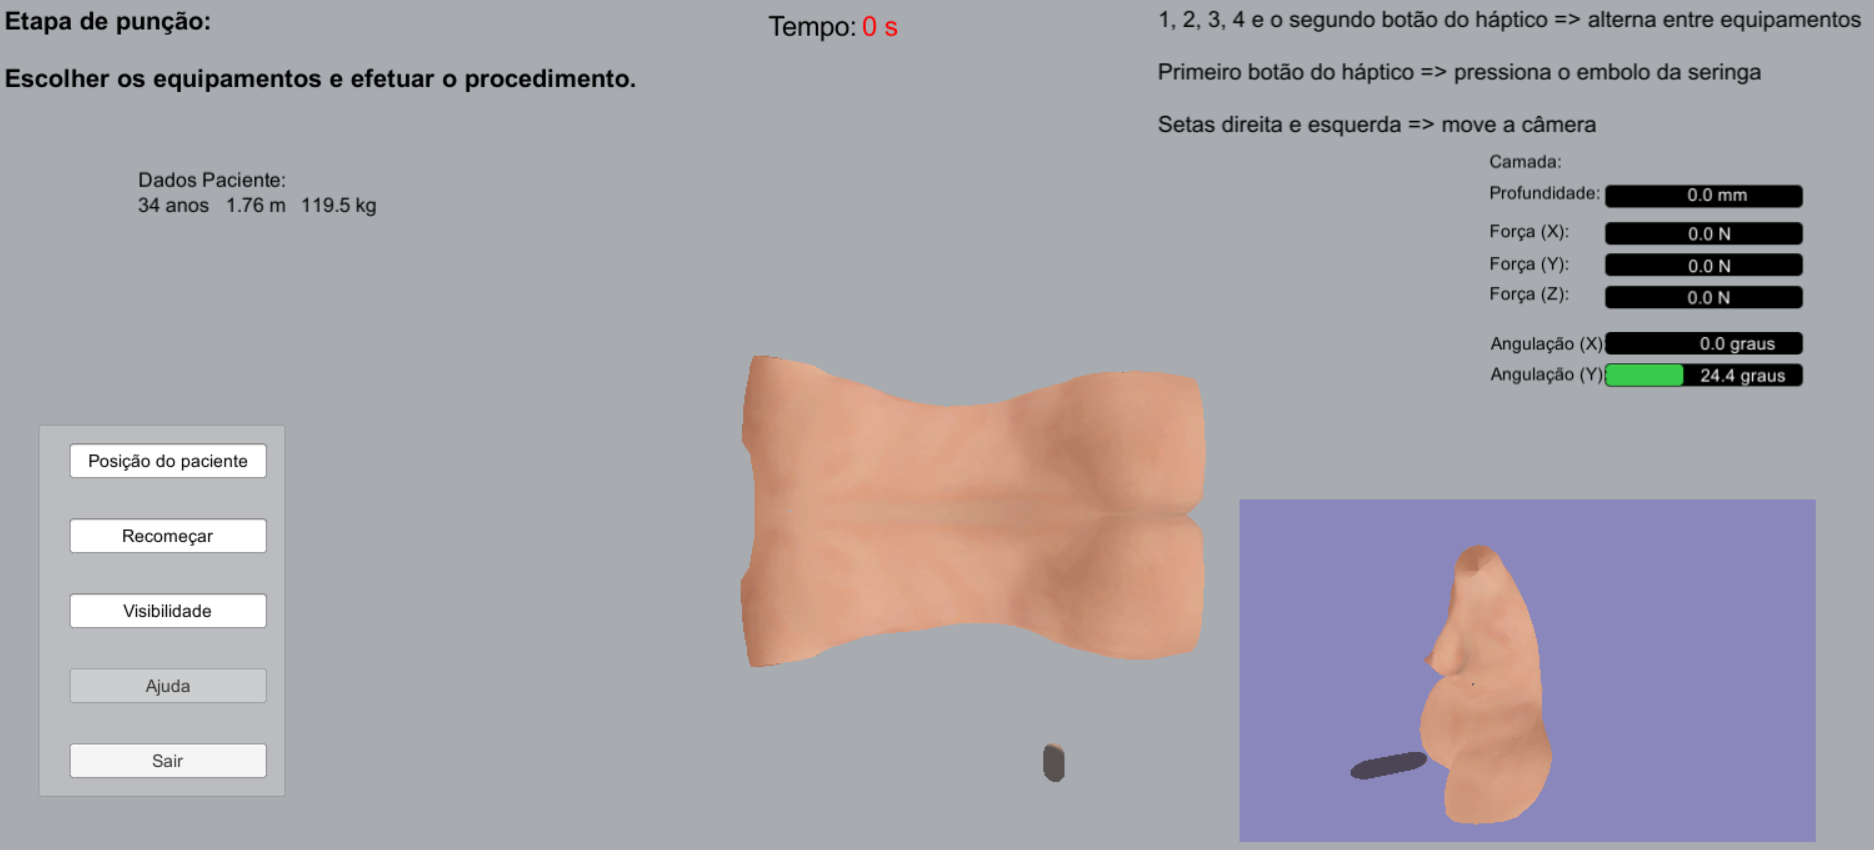
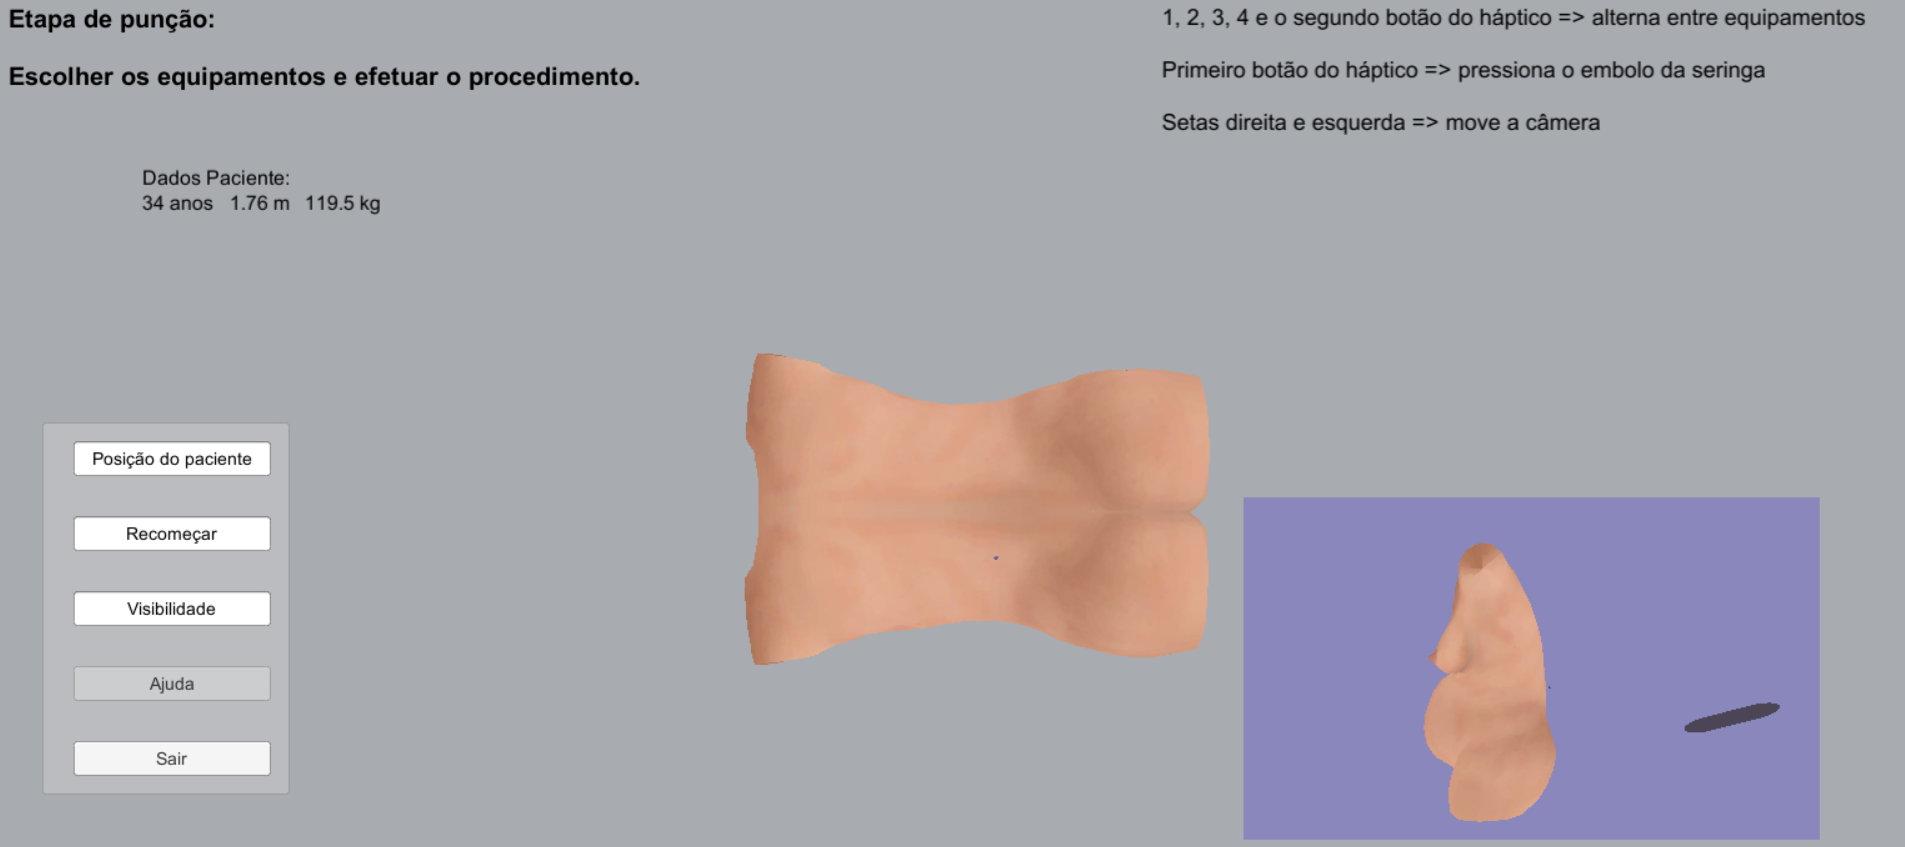
Incluindo imagens de exemplo de execução de procedimentos e inicio da tabela de pontuação

diff --git a/capitulos/cap4.tex b/capitulos/cap4.tex
@@ -157,4 +157,59 @@ Para configuração do \textit{Haptic Plug-In For Unity3D} \cite{Poyade2014} que
 
 \section {Etapas da simulação}
 
-O simulador ao ser iniciado apresenta uma paciente dentre as seis pré-configuradas ilustradas na Figura~\ref{fig:pacientesMaiorParaMenorIMCVisaoTroncoELateral}. Nestas existem pacientes com peso considerado normal, excesso de peso e obesas \cite{MTILLC2019}. O usuário precisa ter uma média de notas acima de seis na execução de procedimentos usando o simulador para que sua habilidade seja considerada satisfatória. É necessário completar a execução de ao menos três procedimentos tendo a média acima de seis para que a habilidade do usuário seja considerada como satisfatória. A nota final corresponde a média da nota obtida em todos os procedimentos executados. No casos de não se atingir a média seis nos três primeiros procedimentos será necessário executar tantos procedimentos quanto forem necessários para se chegar a média seis considerando todos os procedimentos executados. São apresentados \textit{feedbacks} para o usuário durante e ao final de cada procedimento executado em cada um dos pacientes. Primeiro ele precisa identificar via apalpação um dos pontos de inserção da agulha possíveis. Em seguida é necessário aplicar o anestésico local neste ponto de inserção da agulha inserindo a seringa somente até a camada da gordura subcutânea (perfurando somente a camada corporal) para aplicação. Então ele precisa inserir a agulha de raquianestesia neste ponto e avançar pelas camadas até o espaço subaracnóide onde precisa então ministrar a anestesia. A tabela ilustra a pontuação para formação da nota de cada procedimento. 
+O simulador ao ser iniciado apresenta uma paciente dentre as seis pré-configuradas ilustradas na Figura~\ref{fig:pacientesMaiorParaMenorIMCVisaoTroncoELateral}. Nestas existem pacientes com peso considerado normal, excesso de peso e obesas \cite{MTILLC2019}. O usuário precisa ter uma média de notas acima de seis na execução de procedimentos usando o simulador para que sua habilidade seja considerada satisfatória. É necessário completar a execução de ao menos três procedimentos tendo a média acima de seis para que a habilidade do usuário seja considerada como satisfatória. A nota final corresponde a média da nota obtida em todos os procedimentos executados. No casos de não se atingir a média seis nos três primeiros procedimentos será necessário executar tantos procedimentos quanto forem necessários para se chegar a média seis considerando todos os procedimentos executados. São apresentados \textit{feedbacks} para o usuário durante e ao final de cada procedimento executado em cada um dos pacientes. Primeiro ele precisa identificar via apalpação um dos pontos de inserção da agulha possíveis. Em seguida é necessário aplicar o anestésico local neste ponto de inserção da agulha inserindo a seringa somente até a camada da gordura subcutânea (perfurando somente a camada corporal) para aplicação. Então ele precisa inserir a agulha de raquianestesia neste ponto e avançar pelas camadas até o espaço subaracnóide onde precisa então ministrar a anestesia. 
+A Tabela~\ref{tab:PontosNotaProcedimento} ilustra a pontuação para formação da nota de cada procedimento. Itens feitos corretamente e na sequência correta tem pontuação negativa e itens feitos de forma incorreta ou não feitos tem pontuação negativa.
+
+\begin{table}[!ht]
+\begin{center}
+\caption{Pontos para formarem a nota final de cada procedimento.}
+\label{tab:PontosNotaProcedimento}
+\begin{tabular}{|p{0.8\linewidth}|p{0.2\linewidth}|}
+\hline
+\textbf{Item executado ou esquecido} & \textbf{Ponto}\\
+\hline\hline
+Idade (anos) & 6,58\\
+Altura (m) & 0,15\\
+Massa (kg) & 11,80\\
+IMC (kg\/m\^2) & 6,55\\
+\hline
+\end{tabular}
+\end{center}
+\end{table}
+
+As Figuras \ref{fig:sistemaExecucao1RaquiLocalIncorreto}, \ref{fig:sistemaExecucao2seringa}, \ref{fig:sistemaExecucao3faltouApalpacaoAnestesiaLocal}, \ref{fig:sistemaExecucao4correto} e \ref{fig:sistemaExecucao5semApalpacao} mostram uma sequência de possíveis execuções de anestesias ilustrando diferentes erros e acertos durante cada procedimento que são visualizados no \textit{feedback} a direita durante os procedimentos e na janela de \textit{popup} ao final de cada um.  
+
+\begin{figure}[ht!]
+    \centering
+    \includegraphics[width=\textwidth]{capitulos/figuras/sistema-exemplo-execucao-procedimento-1.png} 
+    \caption{Exemplo de finalização de um primeiro procedimento onde a raquianestesia foi aplicada em local incorreto.}
+    \label{fig:sistemaExecucao1RaquiLocalIncorreto}
+\end{figure}
+
+\begin{figure}[ht!]
+    \centering
+    \includegraphics[width=\textwidth]{capitulos/figuras/sistema-exemplo-execucao-procedimento-2.png} 
+    \caption{Exemplo de finalização de um segundo procedimento onde a seringa foi inserida três vezes no corpo da paciente e esta tocou partes indevidas.}
+    \label{fig:sistemaExecucao2seringa}
+\end{figure}
+
+\begin{figure}[ht!]
+    \centering
+    \includegraphics[width=\textwidth]{capitulos/figuras/sistema-exemplo-execucao-procedimento-3.png} 
+    \caption{Exemplo de finalização de um terceiro procedimento onde o usuário não fez a apalpação para escolher o ponto de inserção da agulha e nem aplicou a anestesia local antes de inserção da agulha de raquianestesia.}
+    \label{fig:sistemaExecucao3faltouApalpacaoAnestesiaLocal}
+\end{figure}
+
+\begin{figure}[ht!]
+    \centering
+    \includegraphics[width=\textwidth]{capitulos/figuras/sistema-exemplo-execucao-procedimento-4.png} 
+    \caption{Exemplo de finalização de um quarto procedimento onde todo o procedimento foi executado de forma correta.}
+    \label{fig:sistemaExecucao4correto}
+\end{figure}
+
+\begin{figure}[ht!]
+    \centering
+    \includegraphics[width=\textwidth]{capitulos/figuras/sistema-exemplo-execucao-procedimento-5.png} 
+    \caption{Exemplo de finalização de um quinto procedimento onde só não foi feita a apalpação para determinação do ponto de inserção da agulha.}
+    \label{fig:sistemaExecucao5semApalpacao}
+\end{figure}
